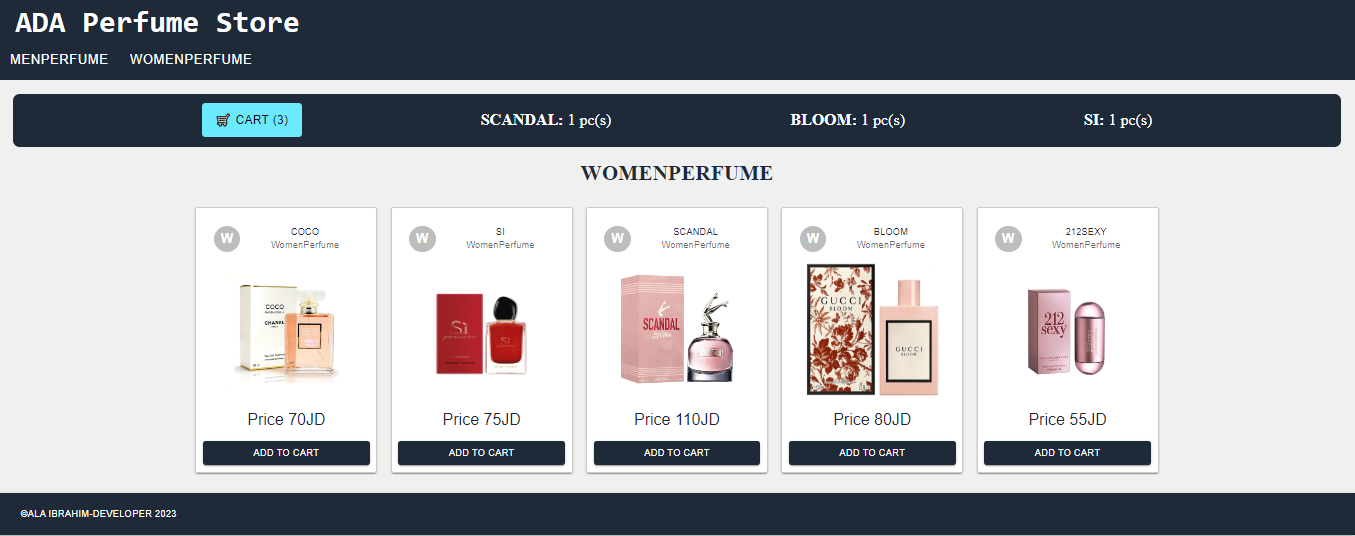
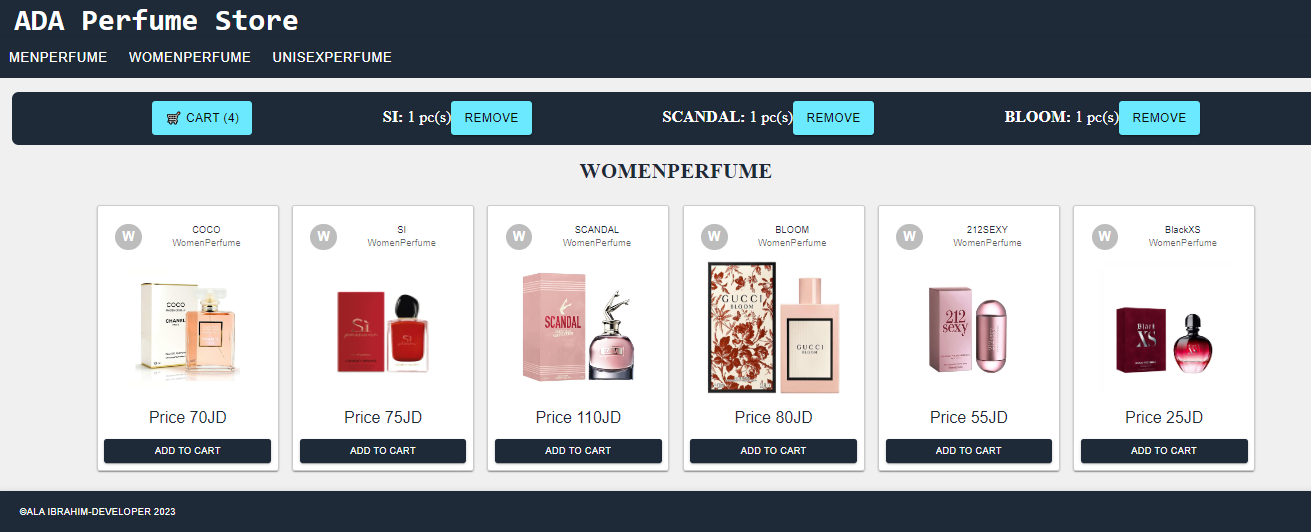
done update pic

diff --git a/storefront/README.md b/storefront/README.md
@@ -2,11 +2,15 @@
 
 ## Men perfume category>>
 
-![uml](./assets/Men.PNG)
+![uml](./assets/man.PNG)
 
 ## Women perfume category>>
 
 ![uml](./assets/women.PNG)
+
+## Unisex perfume category>>
+
+![uml](./assets/unisex.PNG)
 
 ## UML Diagram>>
 
